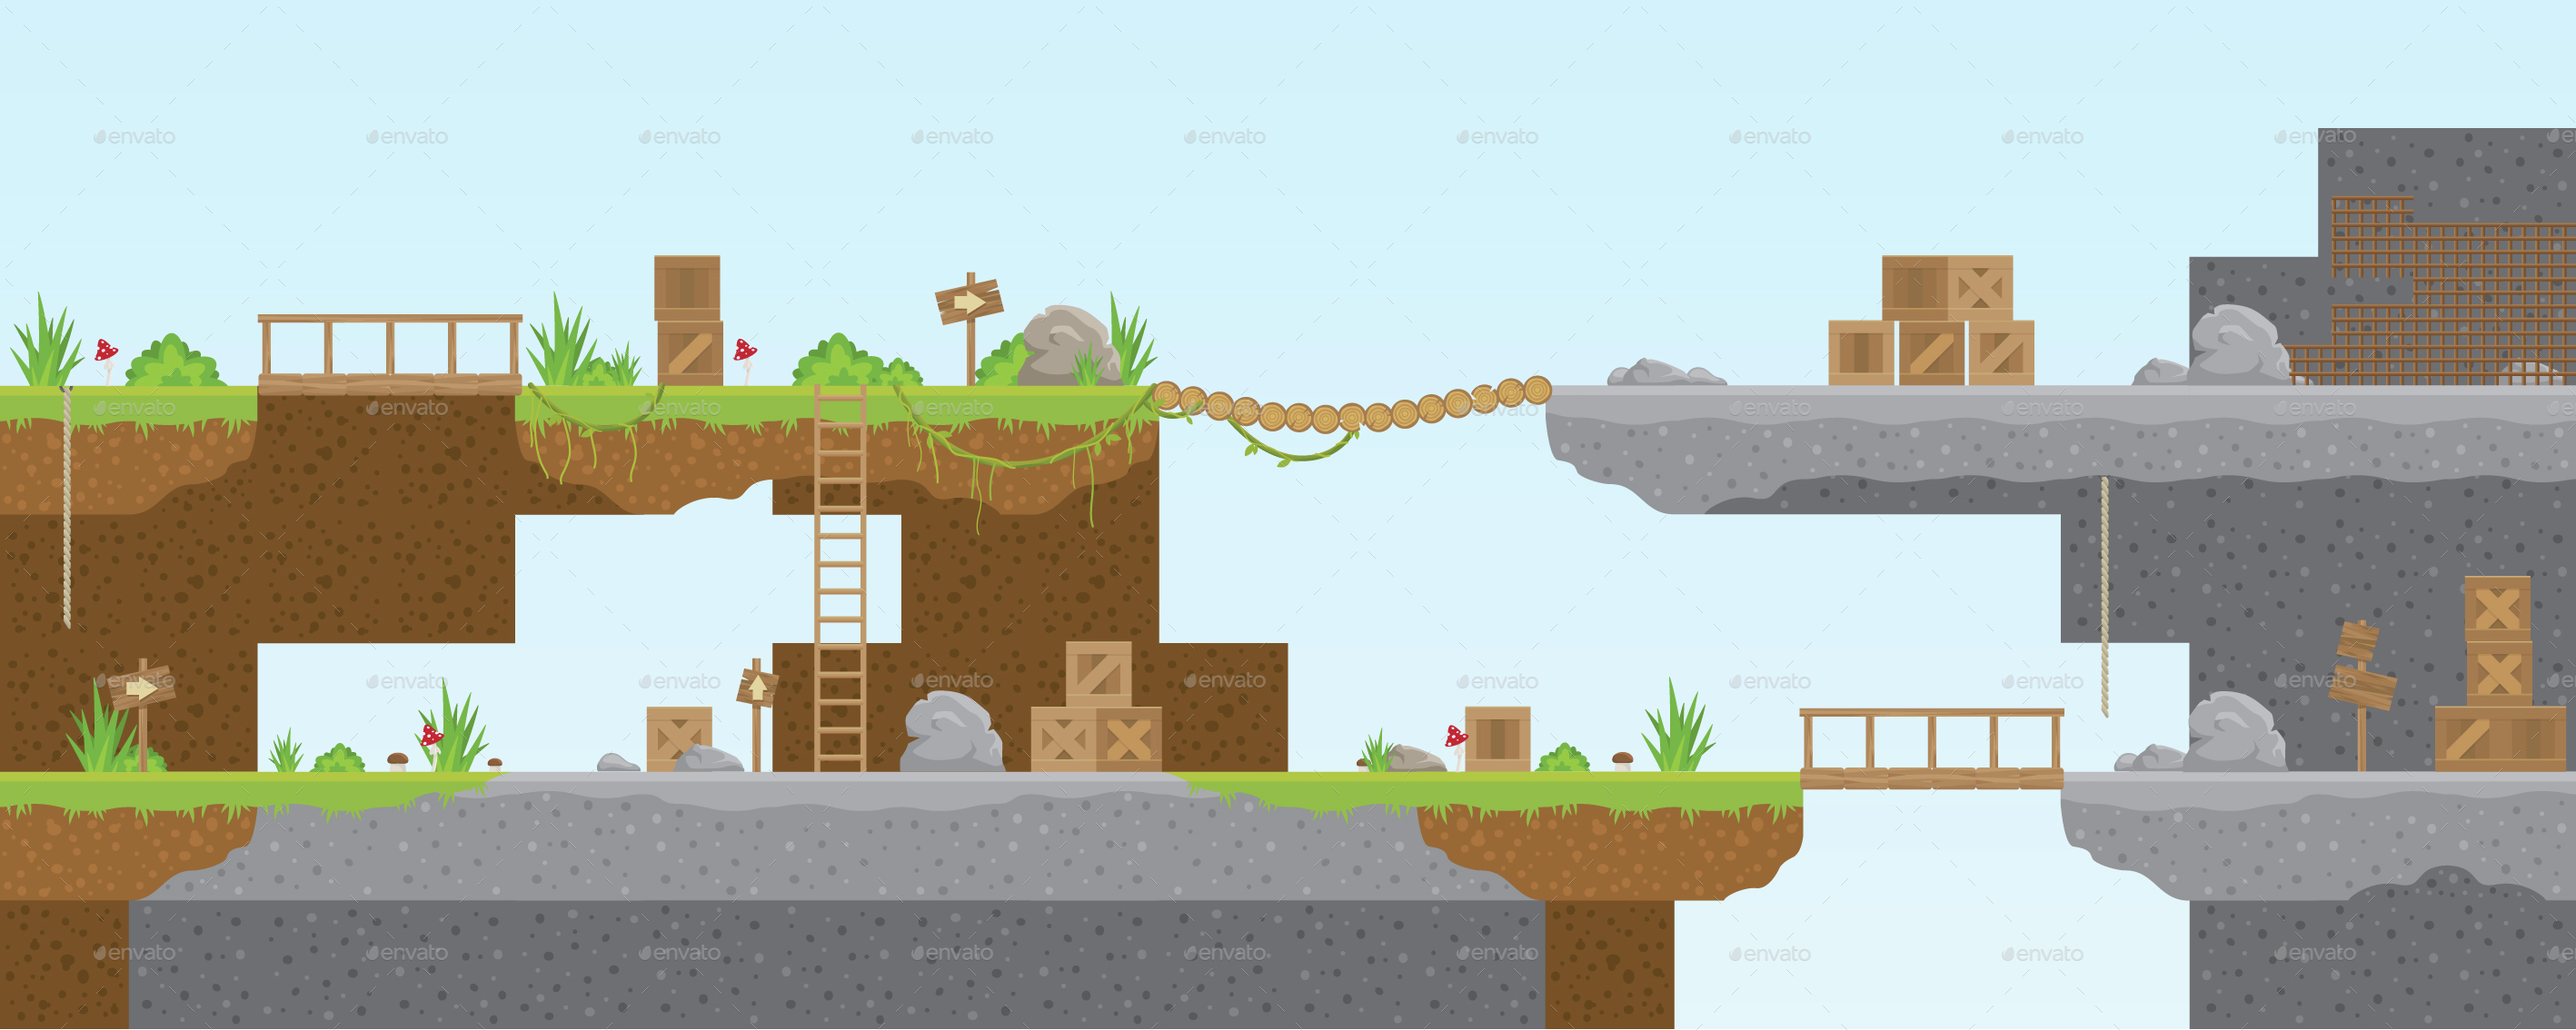
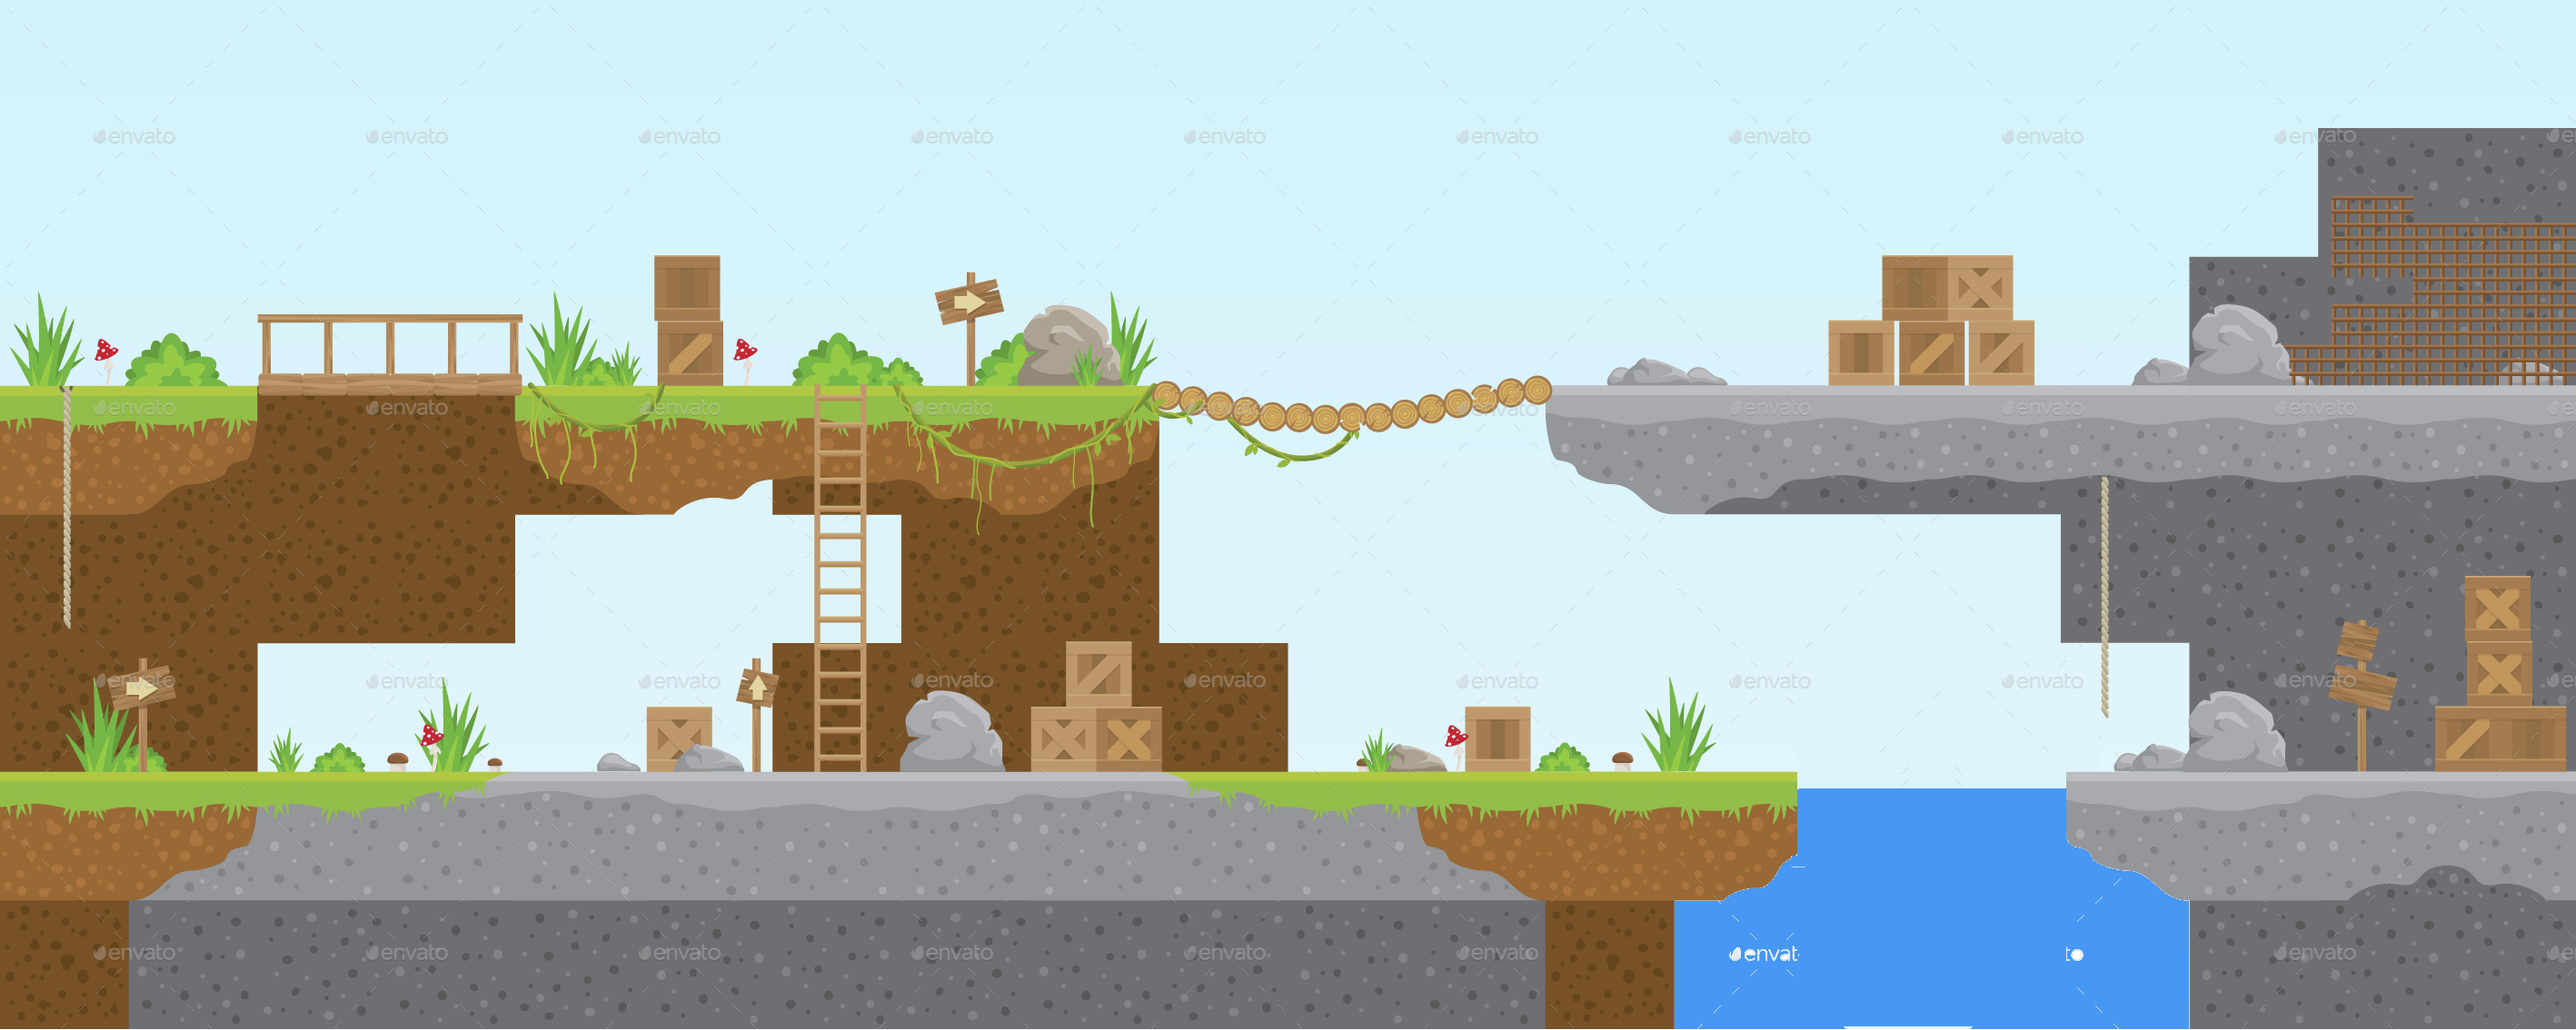
back ground

Changed region(s): [[0.6519, 0.679, 0.8691, 1.0]]

diff --git a/Elemens-core/src/com/elemensia/api/gameobjects/Creature.java b/Elemens-core/src/com/elemensia/api/gameobjects/Creature.java
@@ -2,15 +2,49 @@ package com.elemensia.api.gameobjects;
 
 import com.elemensia.api.Animation;
 import com.elemensia.api.State;
+import com.elemensia.game.World;
 
 public abstract class Creature extends LivingThing{
 
+	private Thread alive;
+
 	public Creature(int x, int y, int width, int height, int health, Animation animations) {
 		super(x, y, width, height, health, animations);
+		this.alive = new Thread(new Runnable() {
+
+			@Override
+			public void run() {
+				
+				float delta = 1 / 60.0f;
+				int delay = (int) (delta * 1000);
+				System.out.println(delta + " " + delay);
+				do {
+					Creature.this.update(-9.8f, delta);
+					try {
+						Thread.sleep(delay);
+					} catch (InterruptedException e) {
+						e.printStackTrace();
+					}
+				}while(Creature.this.isAlive());
+
+			}
+
+		});
+	}
+	
+	public void live(){
+		this.alive.start();
 	}
 
 	public void eat(){
 		this.animations.setAnimation(State.EATING, false);
+	}
+
+	@Override
+	public void update(float gravity, float delta) {
+		super.update(gravity, delta);
+		World.updateColliding(this);
+		this.takeDecision(delta);
 	}
 	public abstract void takeDecision(float delta);
 

diff --git a/Elemens-core/src/com/elemensia/api/Environment.java b/Elemens-core/src/com/elemensia/api/Environment.java
@@ -6,7 +6,6 @@ import com.badlogic.gdx.graphics.Texture;
 import com.badlogic.gdx.graphics.g2d.SpriteBatch;
 import com.badlogic.gdx.graphics.glutils.ShapeRenderer;
 import com.elemensia.api.gameobjects.DynamicGameObject;
-import com.elemensia.api.gameobjects.Food;
 import com.elemensia.api.gameobjects.Ladder;
 import com.elemensia.api.gameobjects.Solid;
 import com.elemensia.api.gameobjects.WaterArea;
@@ -37,6 +36,7 @@ public abstract class Environment {
 		this.loadSolids();
 		// Water zone
 		this.water = new ArrayList<WaterArea>();
+		this.loadWater();
 
 		// Ladder
 		this.ladders = new ArrayList<Ladder>();
@@ -70,6 +70,10 @@ public abstract class Environment {
 		}
 		 */
 	}
+	
+	protected void addWater(WaterArea waterArea) {
+		this.water.add(waterArea);
+	}
 
 	public boolean isUnderWater(DynamicGameObject obj) {
 		for (WaterArea w : this.water) {
@@ -90,4 +94,6 @@ public abstract class Environment {
 	}
 
 	public abstract void loadSolids();
+	
+	public abstract void loadWater();
 }

diff --git a/Elemens-core/src/com/elemensia/game/MainWorldMap.java b/Elemens-core/src/com/elemensia/game/MainWorldMap.java
@@ -2,6 +2,7 @@ package com.elemensia.game;
 
 import com.elemensia.api.Environment;
 import com.elemensia.api.gameobjects.Solid;
+import com.elemensia.api.gameobjects.WaterArea;
 
 public class MainWorldMap extends Environment {
 
@@ -12,7 +13,8 @@ public class MainWorldMap extends Environment {
 
 	@Override
 	public void loadSolids() {
-		this.addSolid(new Solid(0, 0, 2835, 280));
+		this.addSolid(new Solid(0, 0, 1980, 280));
+		this.addSolid(new Solid(2260, 0, 600, 280));
 
 		this.addSolid(new Solid(0, 570, 880, 140));
 		this.addSolid(new Solid(975, 570, 300, 140));
@@ -37,5 +39,12 @@ public class MainWorldMap extends Environment {
 		this.addSolid(new Solid(1704, 570, 1130, 140));
 
 	}
+
+	@Override
+	public void loadWater() {
+		this.addWater(new WaterArea(1980, 0, 280, 260));
+	}
+
+	
 
 }

diff --git a/Elemens-core/src/com/elemensia/api/Biodiversity.java b/Elemens-core/src/com/elemensia/api/Biodiversity.java
@@ -26,7 +26,13 @@ public class Biodiversity {
 
 		// Foods
 		this.foods = new ArrayList<Food>();
-		this.foods.add(new Food(700, 300));
+		this.foods.add(new Food(2000, 300));
+	}
+	
+	public void animate(){
+		for (Creature c : this.creatures){
+			c.live();
+		}
 	}
 
 	public void draw(SpriteBatch sb, float delta){
@@ -44,12 +50,11 @@ public class Biodiversity {
 	}
 
 	public void update(float gravity, float delta) {
+		/*
 		for (Creature c : this.creatures) {
 			c.update(gravity, delta);
-			World.updateColliding(c);
-			c.takeDecision(delta);
 		}
-		
+		*/
 		for (Food f : this.foods){
 			f.update(gravity, delta);
 			World.updateColliding(f);

diff --git a/Elemens-core/src/com/elemensia/game/World.java b/Elemens-core/src/com/elemensia/game/World.java
@@ -13,8 +13,10 @@ public class World {
 	private Ecosystem ecosystem;
 
 	public static World create(float x, float y) {
-		if (world == null)
+		if (world == null){
 			world = new World(x, y);
+		}
+		
 		return world;
 	}
 
@@ -43,6 +45,7 @@ public class World {
 	}
 
 	public static boolean isOnWater(DynamicGameObject dynamicGameObject) {
+		
 		return world.ecosystem.isOnWater(dynamicGameObject);
 	}
 
@@ -52,6 +55,10 @@ public class World {
 
 	public static void updateColliding(DynamicGameObject dynamicGameObject) {
 		world.ecosystem.updateColliding(dynamicGameObject);
+	}
+
+	public void animate() {
+		this.ecosystem.animate();
 	}
 
 }

diff --git a/Elemens-core/src/com/elemensia/api/SpriteAnimation.java b/Elemens-core/src/com/elemensia/api/SpriteAnimation.java
@@ -29,7 +29,7 @@ public class SpriteAnimation extends com.elemensia.api.Animation{
 			for (int i = 0; i < tmp[0].length; i++) {
 				animation[i] = tmp[j][i];
 			}
-			this.animations.put(states[j], new Animation<TextureRegion>(0.1f, animation));
+			this.animations.put(states[j], new Animation<TextureRegion>(0.05f, animation));
 		}
 		this.setAnimation(states[0], true);
 	}

diff --git a/Elemens-core/src/com/elemensia/game/Hero.java b/Elemens-core/src/com/elemensia/game/Hero.java
@@ -2,7 +2,6 @@ package com.elemensia.game;
 
 import com.badlogic.gdx.Gdx;
 import com.badlogic.gdx.Input;
-import com.badlogic.gdx.math.Vector2;
 import com.elemensia.api.SplineAnimations;
 import com.elemensia.api.State;
 import com.elemensia.api.gameobjects.LivingThing;

diff --git a/Elemens-core/src/com/elemensia/api/WorldGameScreen.java b/Elemens-core/src/com/elemensia/api/WorldGameScreen.java
@@ -36,6 +36,7 @@ public class WorldGameScreen extends AbstractScreen {
 		Utility.loadTextureAsset("world/bg.jpg");
 		Utility.loadTextureAsset("apple.png");
 		this.world = World.create(0.0f, -9.8f);
+		this.world.animate();
 	}
 	
 	@Override

diff --git a/Elemens-core/src/com/elemensia/game/Cube.java b/Elemens-core/src/com/elemensia/game/Cube.java
@@ -19,7 +19,7 @@ public class Cube extends Creature{
 
 	@Override
 	public void takeDecision(float delta) {
-		if (Math.random() < 0.0005) 
+		if (Math.random() < 0.005) 
 			this.jump(); 
 		else 
 			this.moveRight(delta); 

diff --git a/Elemens-core/src/com/elemensia/api/gameobjects/LivingThing.java b/Elemens-core/src/com/elemensia/api/gameobjects/LivingThing.java
@@ -11,4 +11,8 @@ public abstract class LivingThing extends DynamicGameObject{
 		super(x, y, width, height, animations);
 		this.life = new Life(health);
 	}
+	
+	public boolean isAlive() {
+		return true;
+	}
 }

diff --git a/Elemens-core/src/com/elemensia/api/Ecosystem.java b/Elemens-core/src/com/elemensia/api/Ecosystem.java
@@ -140,4 +140,8 @@ public class Ecosystem {
 		return this.env.isUnderWater(obj);
 	}
 
+	public void animate() {
+		this.bio.animate();
+	}
+
 }
